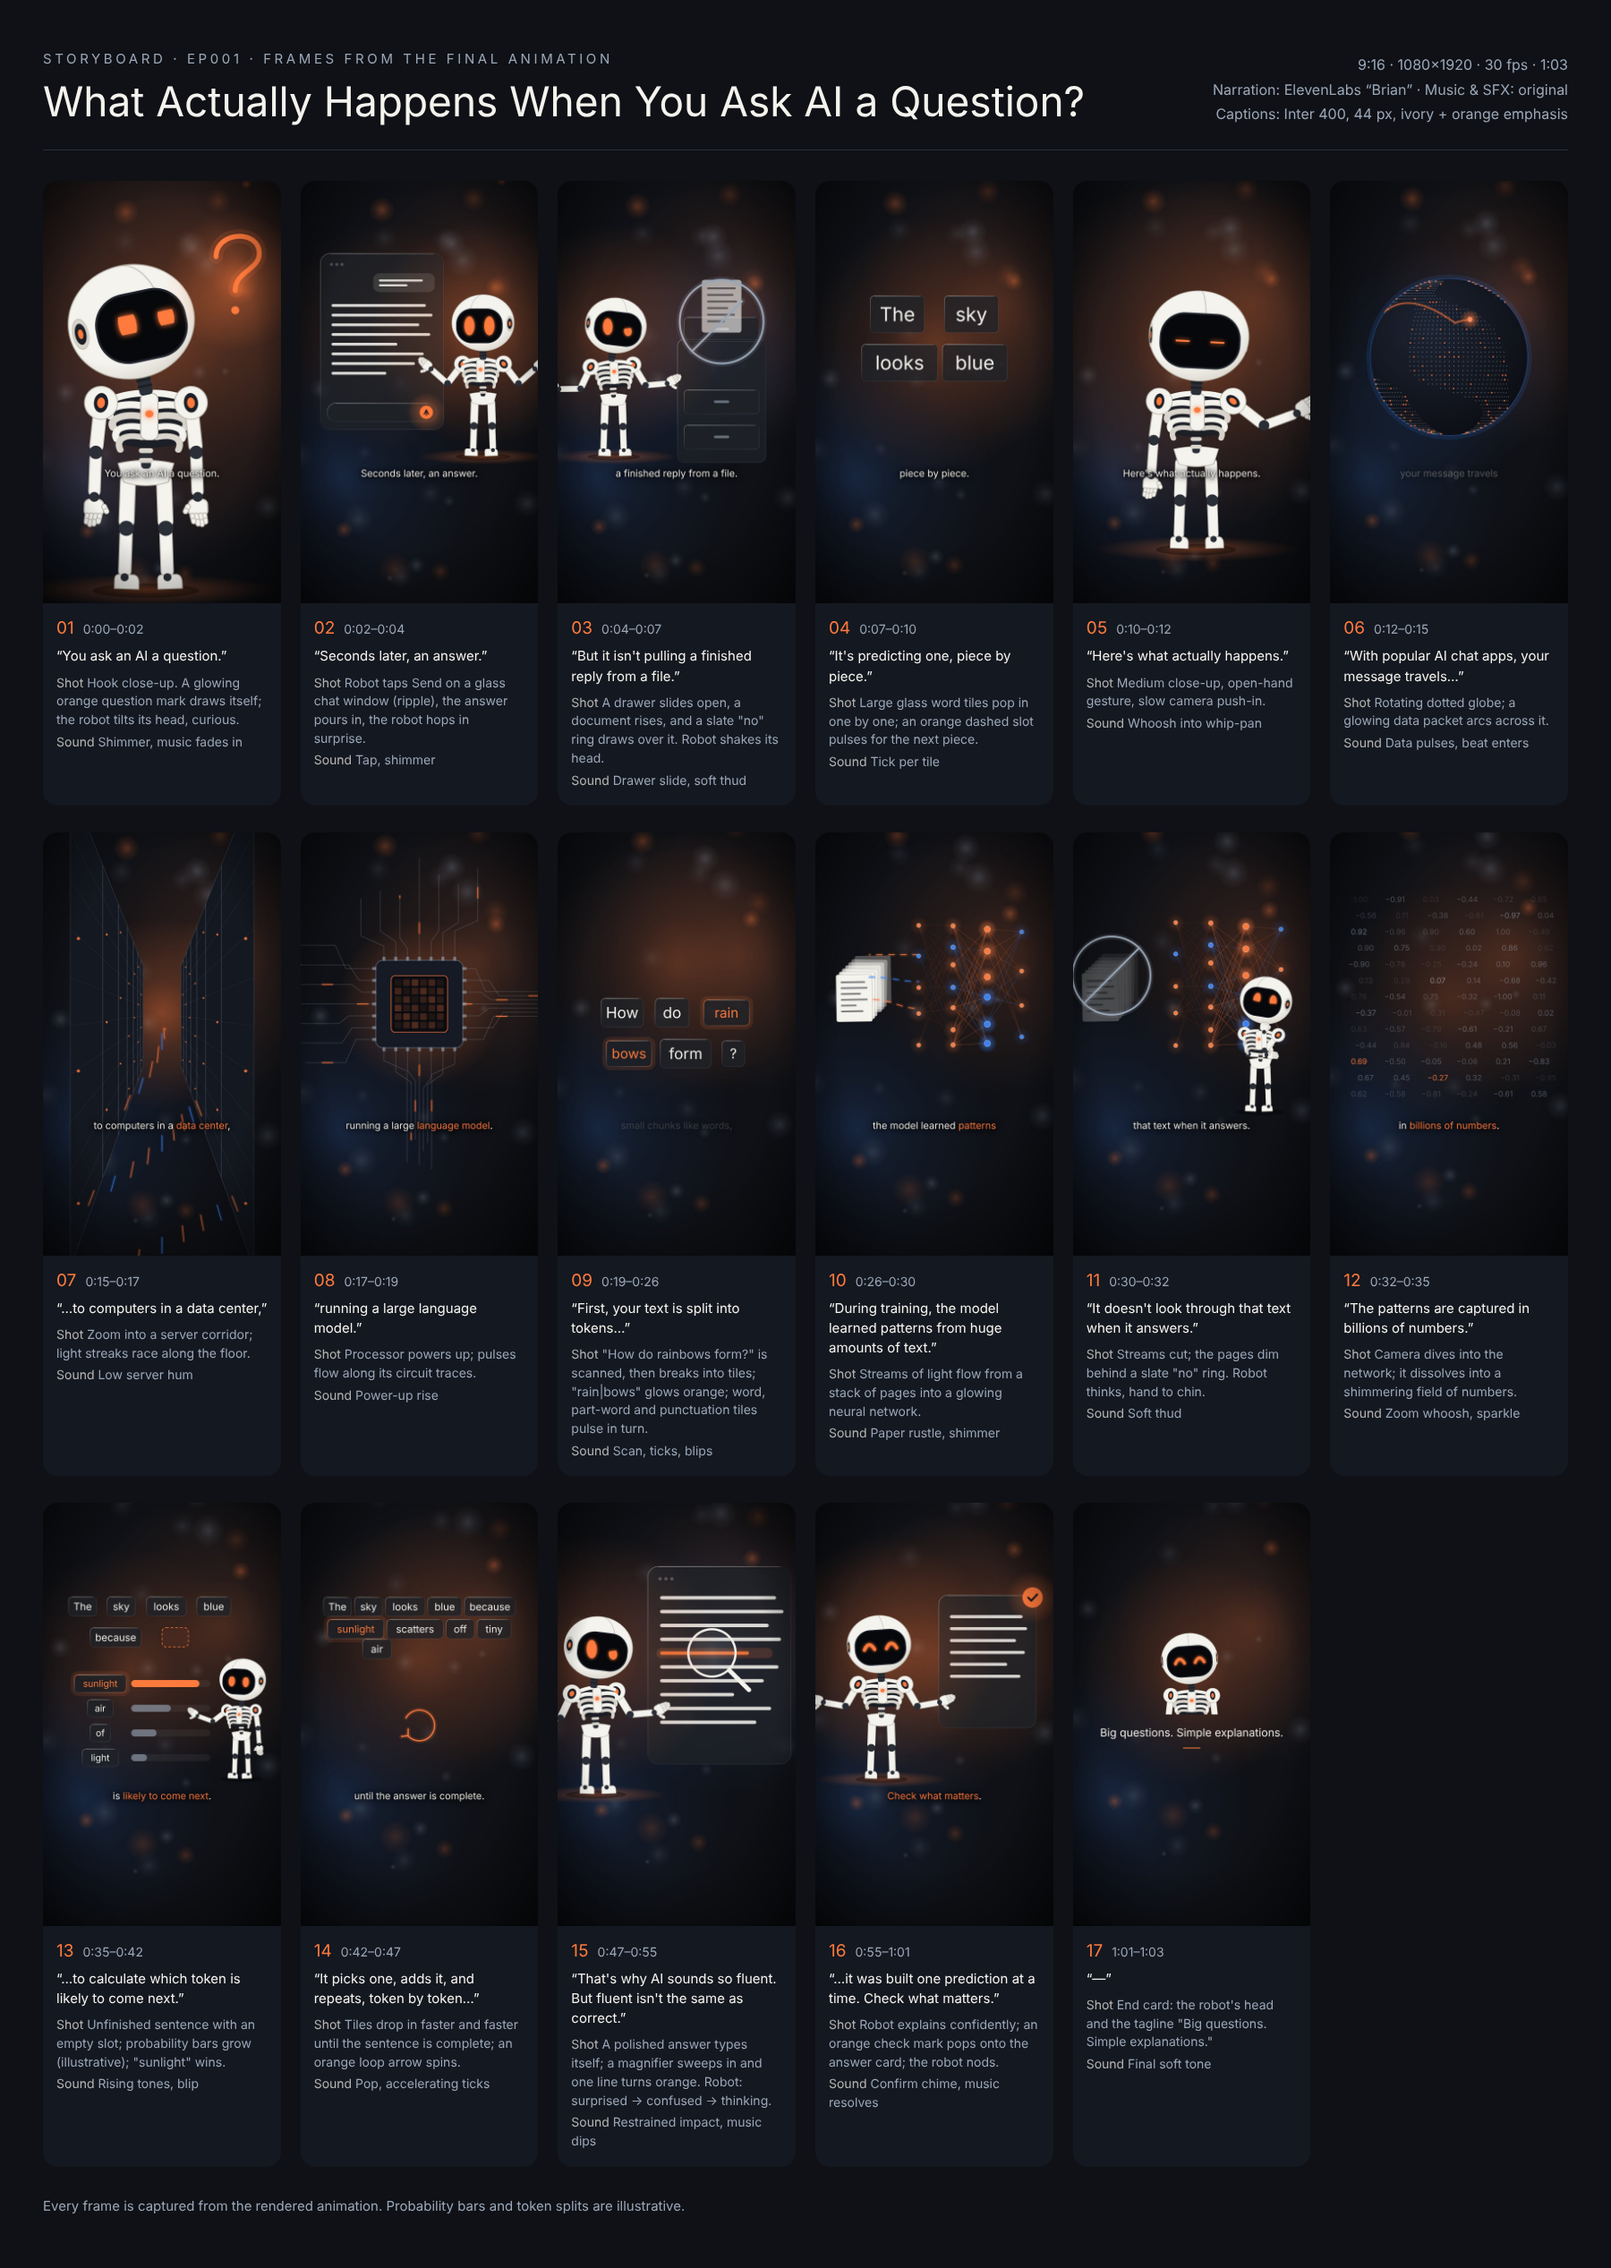
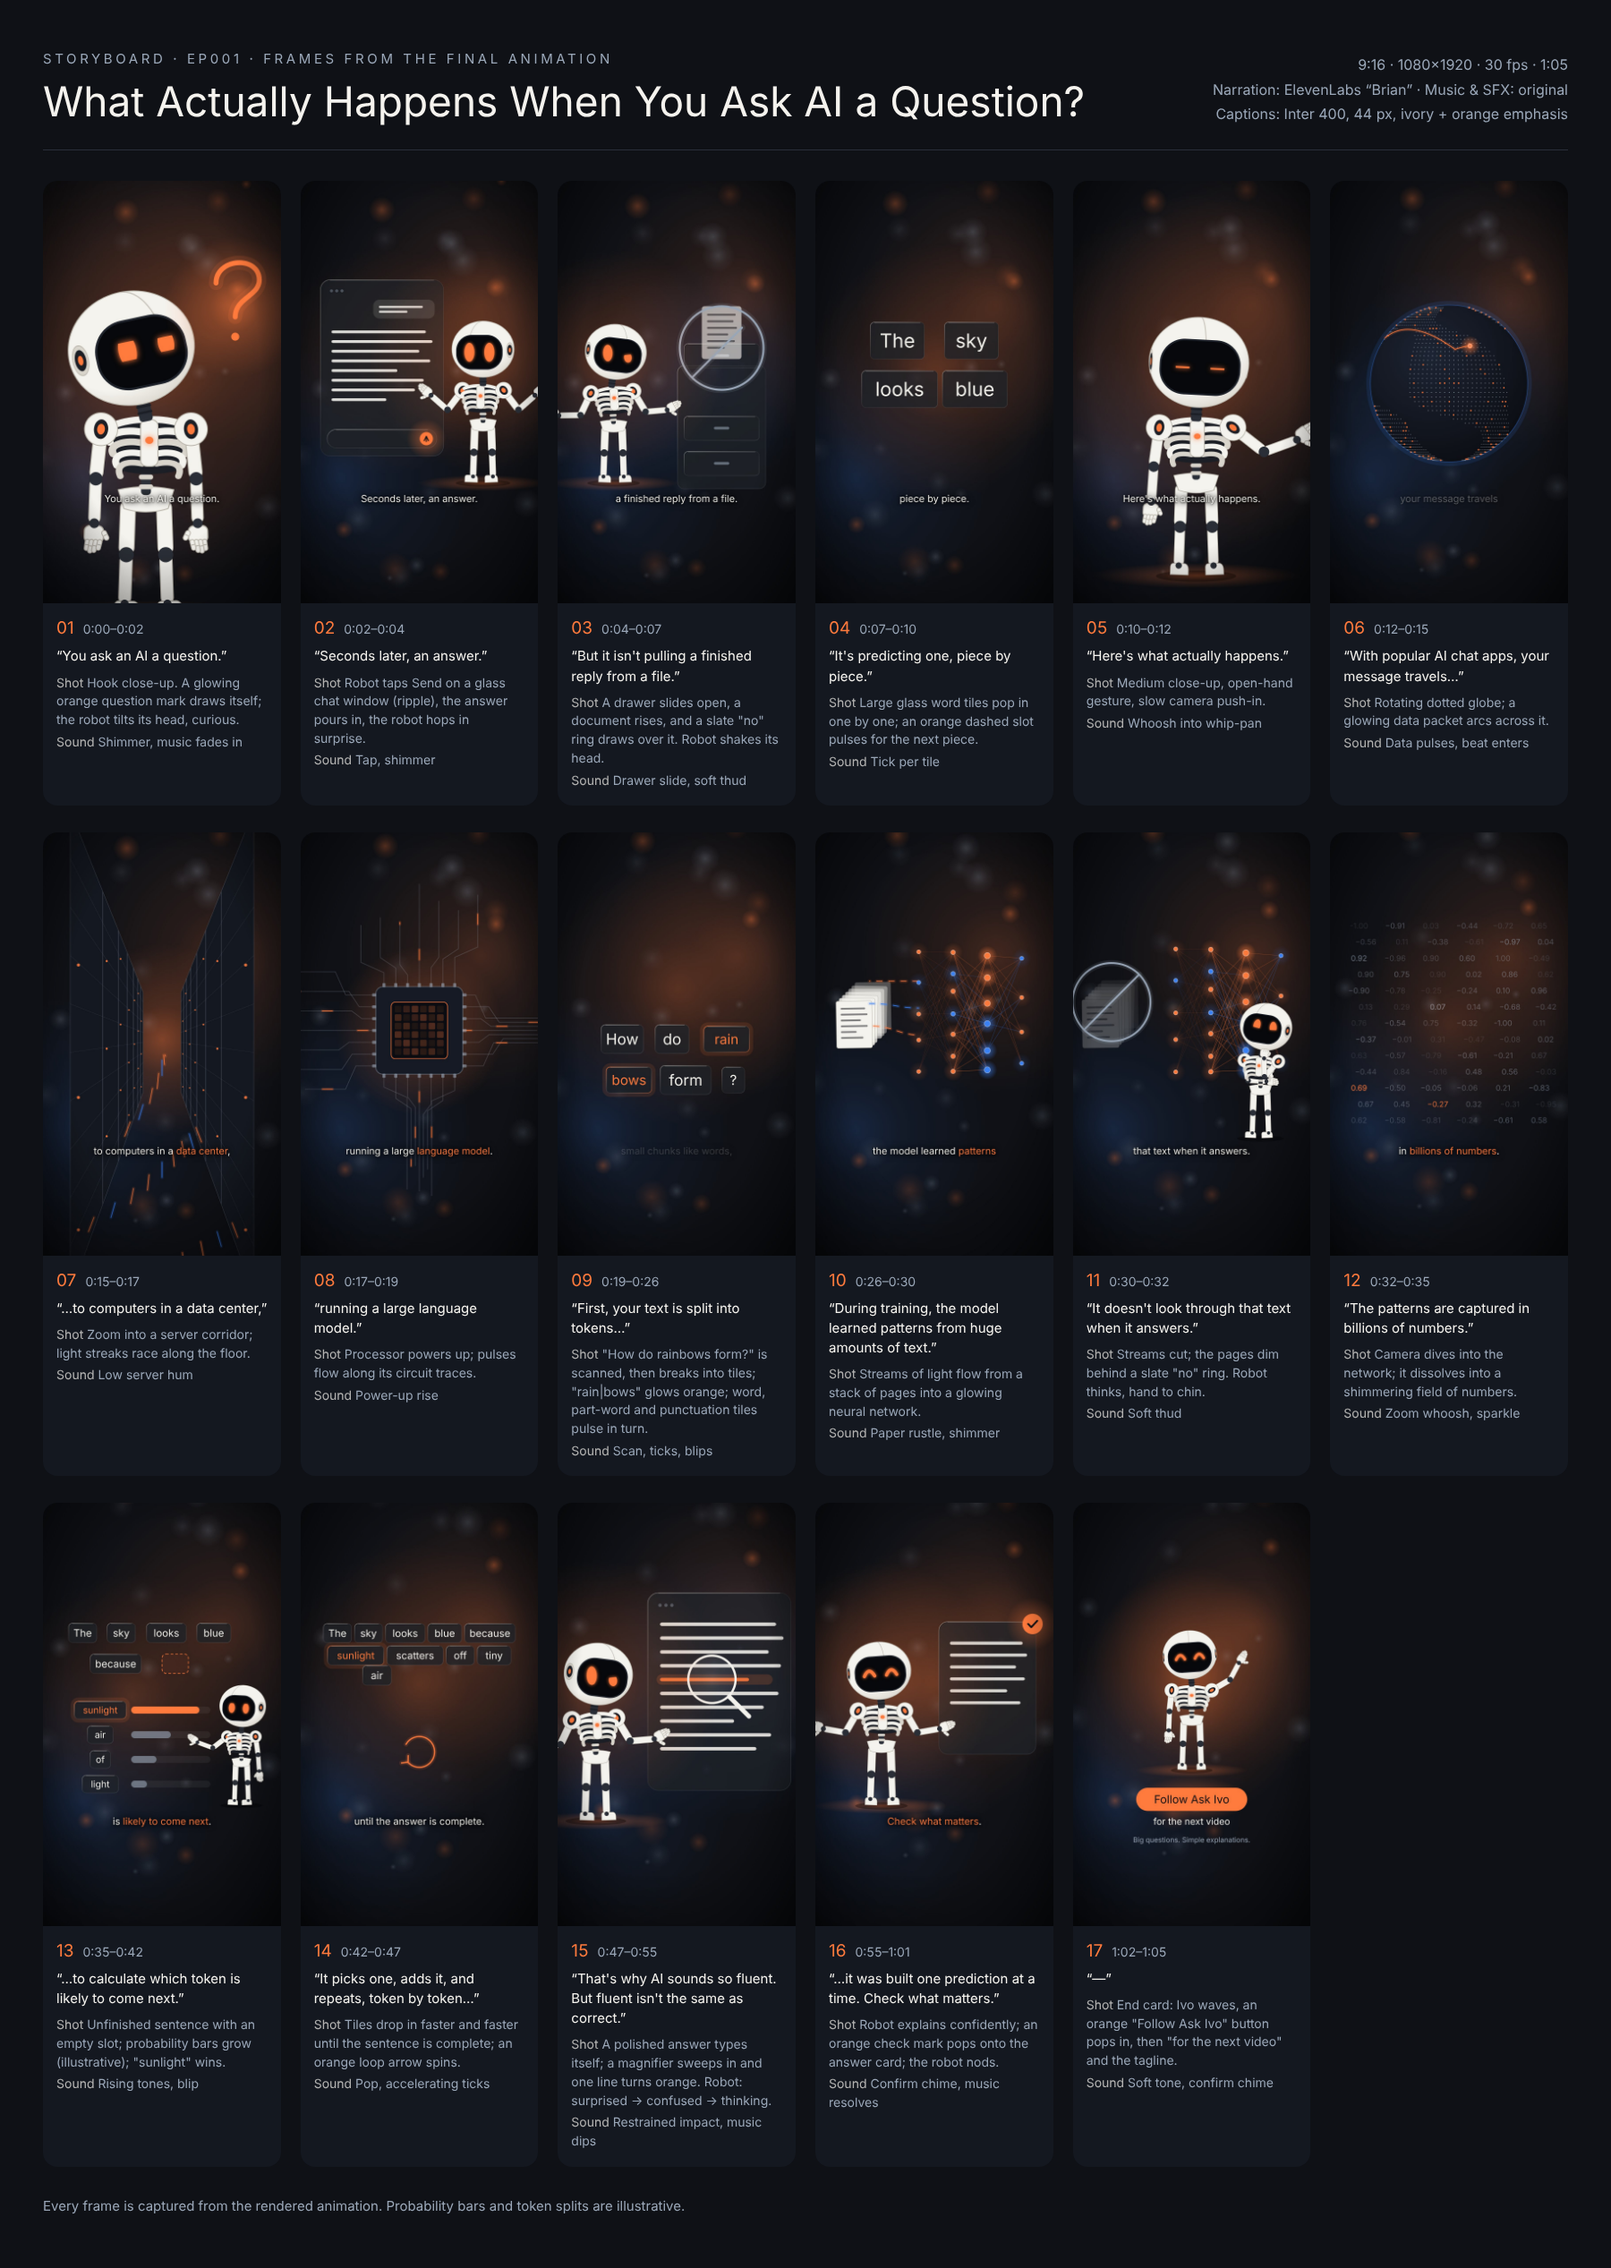
EP001: centre scenes vertically, lower subtitles to y=1445 (owner request), refresh storyboard
Claude-Session: https://claude.ai/code/session_013Lp6yPYJ2WJ6tLkaBiizVH

diff --git a/templates/storyboard-final.html b/templates/storyboard-final.html
@@ -25,7 +25,7 @@
 <body>
 <header>
   <div><div class="kicker">Storyboard · EP001 · frames from the final animation</div><h1>What Actually Happens When You Ask AI a Question?</h1></div>
-  <div class="meta">9:16 · 1080×1920 · 30 fps · 1:03<br>Narration: ElevenLabs “Brian” · Music & SFX: original<br>Captions: Inter 400, 44 px, ivory + orange emphasis</div>
+  <div class="meta">9:16 · 1080×1920 · 30 fps · 1:05<br>Narration: ElevenLabs “Brian” · Music & SFX: original<br>Captions: Inter 400, 44 px, ivory + orange emphasis</div>
 </header>
 <div class="grid" id="grid"></div>
 <footer>Every frame is captured from the rendered animation. Probability bars and token splits are illustrative.</footer>

diff --git a/episodes/ep001-ask-ai/episode.js b/episodes/ep001-ask-ai/episode.js
@@ -21,7 +21,8 @@ const END = timing.duration + 0.4;
 const bgLayer = st.layer();
 const atmo = F.atmosphere(bgLayer, svg, C, { seed: 5, warm: [[820, 560, 640]], cool: [[180, 1350, 620]] });
 st.onFrame((t) => atmo.update(t));
-const sceneHost = st.layer();
+// Shift every scene down so the main subject sits in the vertical middle of the 9:16 frame.
+const sceneHost = st.layer({ transform: 'translate(0,120)' });
 
 function scene() {
   const root = K.el('g', {}, sceneHost);
